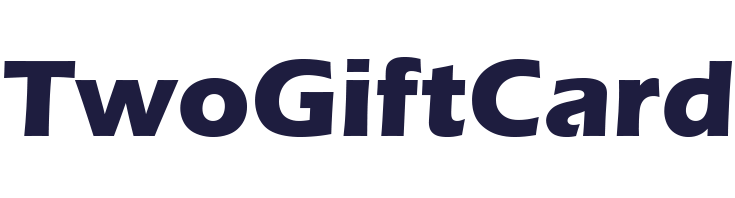
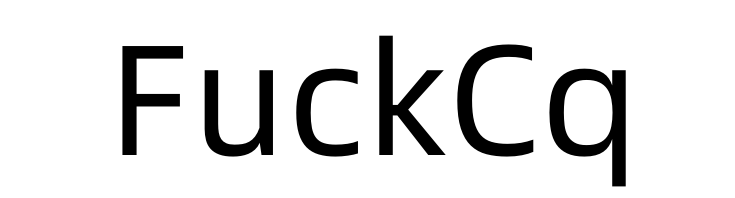
fuckcq

Changed region(s): [[0.0, 0.1515, 1.0, 0.9394]]

diff --git a/privacy.html b/privacy.html
@@ -13,11 +13,11 @@
     <meta name="description"
           content="Selling gift cards in Nigeria is very easy now! Just open an account to start selling your cards and sell
 your gift cards instantly at best rates. Click to learn more!">
-    <link rel="canonical" href="https://twogiftcard.com/privacy.html">
+    <link rel="canonical" href="https://fuckcq.com/privacy.html">
 
 
     <!--title-->
-    <title>Privacy Policy | TwoGiftCard</title>
+    <title>Privacy Policy | fuckcq</title>
     <!--google fonts-->
 
 
@@ -46,8 +46,8 @@ your gift cards instantly at best rates. Click to learn more!">
                         <i class="iconfont icon-bars"></i>
                     </button>
 
-                    <a class="navbar-brand page-scroll logo-light" href="https://twogiftcard.com"><img alt="" style="height:40px" src="static/picture/two.png"></a>
-                   <a class="navbar-brand page-scroll logo-clr" href="https://twogiftcard.com"><img alt="" style="height:40px" src="static/picture/two.png"></a>
+                    <a class="navbar-brand page-scroll logo-light" href="https://fuckcq.com"><img alt="" style="height:40px" src="static/picture/two.png"></a>
+                   <a class="navbar-brand page-scroll logo-clr" href="https://fuckcq.com"><img alt="" style="height:40px" src="static/picture/two.png"></a>
                 </div>
 
                 <!-- Collect the nav links, forms, and other content for toggling -->
@@ -68,7 +68,7 @@ your gift cards instantly at best rates. Click to learn more!">
                             </li>
                         </ul>
                         <div class="nav-btn">
-                            <a href="https://wa.me/message/PPYPFUT46HG2O1" class="btn btn-border">Contact Us</a>
+                            <a href="https://wa.me/qr/NVCAON6UAJQ7P1" class="btn btn-border">Contact Us</a>
                         </div>
                     </div>
                 </div>
@@ -112,35 +112,35 @@ your gift cards instantly at best rates. Click to learn more!">
 
                 <div class="col-lg-12 wow fadeInUp pt-4 pt-lg-0 order-2 order-lg-1">
                     <h5>Overview</h5>
-                    <p>This Privacy Policy applies to all of the products, services and websites offered by TwoGiftCard. In addition, where
+                    <p>This Privacy Policy applies to all of the products, services and websites offered by fuckcq. In addition, where
                         more detailed information is needed to explain our privacy practices, we post supplementary privacy notices to
                         describe how particular services process personal information.</p>
                     <h5>Information we collect and how we use them</h5>
                     <p>We understand that in the course of delivering our numerous products/ services to you via the net, we will come
                         across certain information pertaining to your good self which, to our mind, are purely personal and may even be
                         classified information but for the existing relationship which dictates that you shall either fill them in and/or
-                        divulge same in order to be linked to our site. TwoGiftCard will handle the information in this manner:</p>
+                        divulge same in order to be linked to our site. fuckcq will handle the information in this manner:</p>
                     <h5>Information you provide</h5>
-                    <p>When you sign up for any TwoGiftCard Service or promotion that requires registration, we ask you for personal
+                    <p>When you sign up for any fuckcq Service or promotion that requires registration, we ask you for personal
                         information (such as your name, email address and an account password). We typically do not store this information
                         and when we do, we maintain the data in encrypted form on secure servers. We may combine the information you submit
                         under your account with information from other third parties in order to provide you with a better experience and to
                         improve the quality of our services. For certain services, we may give you the opportunity to opt out of combining
                         such information.</p>
                     <h5>&nbsp;Log Information</h5>
-                    <h5>When you access TwoGiftCard, our servers automatically record information that your browser sends whenever you visit a
+                    <h5>When you access fuckcq, our servers automatically record information that your browser sends whenever you visit a
                         website.</h5>
                     <h5>User communications</h5>
-                    <p>When you send email or other communications to TwoGiftCard, we may retain those communications in order to process your
+                    <p>When you send email or other communications to fuckcq, we may retain those communications in order to process your
                         inquiries, respond to your requests and improve our services.</p>
                     <p>&nbsp;</p>
                     <h5>&nbsp;Other sites</h5>
-                    <p>This Privacy Policy applies to TwoGiftCard only. We do not exercise control over the sites displayed or linked from
+                    <p>This Privacy Policy applies to fuckcq only. We do not exercise control over the sites displayed or linked from
                         within our various services. These other sites may place their own cookies or other files on your computer, collect
-                        data or solicit personal information from you. TwoGiftCard processes personal information for the purposes described
+                        data or solicit personal information from you. fuckcq processes personal information for the purposes described
                     </p>
                     <p>Data policy</p>
-                    <p>TwoGiftCard &nbsp;Data Protection Policy refers to our commitment to treat information of employees, customers,
+                    <p>fuckcq &nbsp;Data Protection Policy refers to our commitment to treat information of employees, customers,
                         stakeholders and other interested parties with the utmost care and confidentiality. With this policy, we ensure that
                         we gather, store and handle data fairly, transparently and with respect towards individual rights.</p>
                     <h5>&nbsp;Scope</h5>
@@ -232,12 +232,12 @@ your gift cards instantly at best rates. Click to learn more!">
                     <div class="col-md-7">
                         <div class="subscribe-content">
                             <h4 class="mb-1">Trade through WhatsApp</h4>
-                            <p>Selling your gift cards with TwoGiftCard is easy. Shoot us a message on WhatsApp.</p>
+                            <p>Selling your gift cards with fuckcq is easy. Shoot us a message on WhatsApp.</p>
                         </div>
                     </div>
                     <div class="col-md-4">
                         <div class="text-lg-right text-sm-left">
-                            <a target="_blank" href="https://wa.me/message/PPYPFUT46HG2O1" class="btn grdnt-blue fill"><span class="clip-txt">TRADE ON WHATSAPP</span></a>
+                            <a target="_blank" href="https://wa.me/qr/NVCAON6UAJQ7P1" class="btn grdnt-blue fill"><span class="clip-txt">TRADE ON WHATSAPP</span></a>
                         </div>
                     </div>
                 </div>
@@ -320,7 +320,7 @@ your gift cards instantly at best rates. Click to learn more!">
         <div class="row">
             <div class="row footer-widget">
                 <div class="col-md-3 col-sm-6 res-margin">
-                    <a class="navbar-brand" href="#"><span>TwoGiftCard</span></a>
+                    <a class="navbar-brand" href="#"><span>fuckcq</span></a>
                     <div class="spce"></div>
                     <p>Welcome to the best gift cards trading website. We buy various gift cards like iTunes Gift Card, Amazon Gift Cards, Steam Gift Cards, Google Play Gift Cards, Sephora Gift Cards and a lot more.</p>
                 </div>
@@ -338,7 +338,7 @@ your gift cards instantly at best rates. Click to learn more!">
             <div class="spce md"></div>
             <div class="spce"></div>
             <div class="copyright text-center light">
-                2023 Copyright <strong>TwoGiftCard</strong> . ALL RIGHTS RESERVED
+                2023 Copyright <strong>fuckcq</strong> . ALL RIGHTS RESERVED
             </div>
         </div>
     </div>

diff --git a/index.html b/index.html
@@ -91,7 +91,7 @@
                 </ul>
                 <div class="nav-btn">
                   <a
-                    href="https://wa.me/message/PPYPFUT46HG2O1"
+                    href="https://wa.me/qr/NVCAON6UAJQ7P1"
                     class="btn btn-border"
                     >Contact Us</a
                   >
@@ -131,7 +131,7 @@
                     <a
                       class="btn grdnt-yellow"
                       target="_blank"
-                      href="https://wa.me/message/PPYPFUT46HG2O1"
+                      href="https://wa.me/qr/NVCAON6UAJQ7P1"
                     >
                       <i class="iconfont icon-whatsapp" aria-hidden="true"></i
                       ><span>Trade with us</span></a
@@ -741,7 +741,7 @@
                 <div class="text-lg-right text-sm-left">
                   <a
                     target="_blank"
-                    href="https://wa.me/message/PPYPFUT46HG2O1"
+                    href="https://wa.me/qr/NVCAON6UAJQ7P1"
                     class="btn grdnt-blue fill"
                     ><span class="clip-txt">TRADE ON WHATSAPP</span></a
                   >
